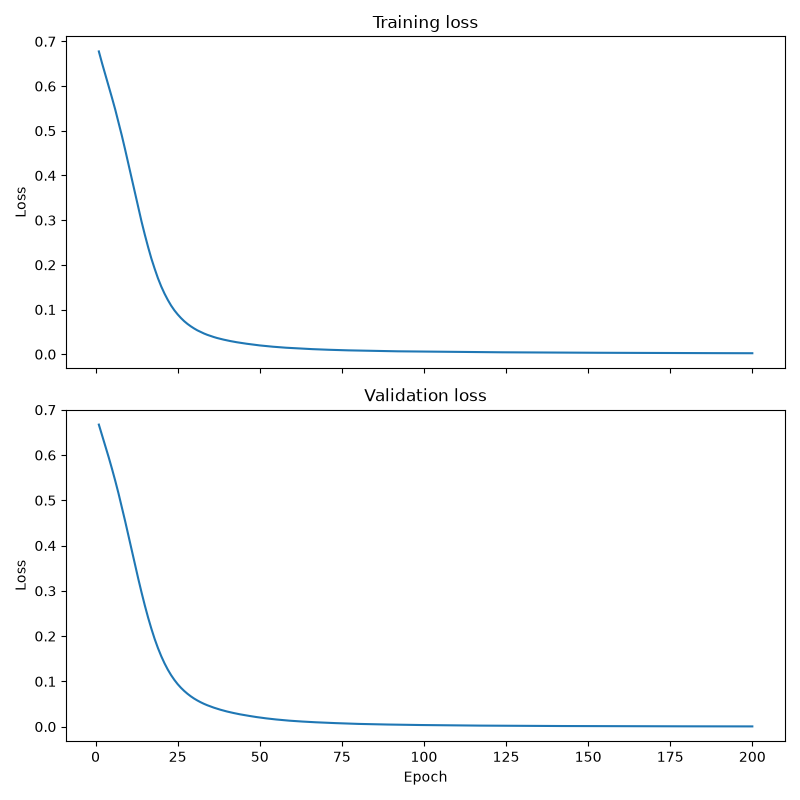
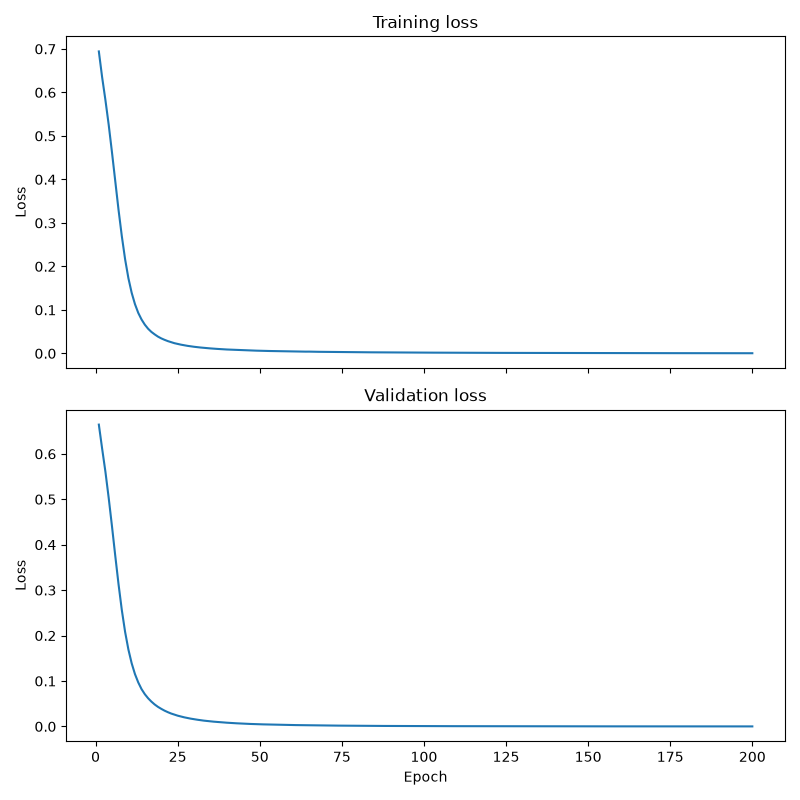
Renamed 3D data files, edited training to allow 3D data input

diff --git a/scripts/baseline_model_training-eval.py b/scripts/baseline_model_training-eval.py
@@ -11,10 +11,13 @@ import numpy as np
 import matplotlib.pyplot as plt
 import torch
 
-data_path = "./data/gaussian_2d/gaussian_2d_overlap.csv"
-output_path = "./outputs/gaussian_2d_overlap_results"
+data_path = "./data/gaussian_3d/gaussian_3d_narrow.csv"
+output_path = "./outputs/gaussian_3d_narrow_results"
 
 coordinates, classifications = import_data(data_path)
+
+# Use the number of columns in the coordinate data (2 for 2D, 3 for 3D).
+input_dim = np.asarray(coordinates).shape[-1]
 
 dataset = ClassificationData(coordinates, classifications)
 
@@ -27,7 +30,7 @@ train_loader, val_loader, test_loader = create_dataloaders(
     batch_size=16
 )
 
-untrained_model = ClassificationMLP(2, 32, 2)
+untrained_model = ClassificationMLP(input_dim, 32, 2)
 
 trained_model_state, history = train_classification(
     model=untrained_model,
@@ -39,7 +42,7 @@ trained_model_state, history = train_classification(
     output_path=output_path
 )
 
-trained_model = ClassificationMLP(2, 32, 2)
+trained_model = ClassificationMLP(input_dim, 32, 2)
 trained_model.load_state_dict(trained_model_state)
 
 # Plot the saved training history

diff --git a/scripts/data_plotting_2d.py b/scripts/data_plotting_2d.py
@@ -11,8 +11,8 @@ import numpy as np
 import matplotlib.pyplot as plt
 import torch
 
-data_path = "./data/gaussian_2d/gaussian_2d_overlap.csv"
-output_path = "./outputs/gaussian_2d_overlap_results"
+data_path = "./data/gaussian_3d/gaussian_3d_narrow.csv"
+output_path = "./outputs/gaussian_3d_narrow_results"
 
 coordinates, classifications = import_data(data_path)
 
